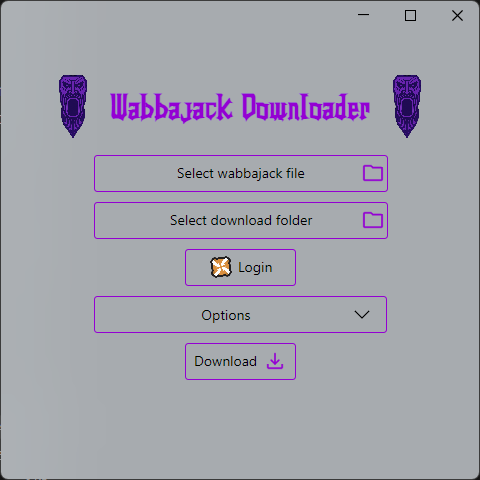
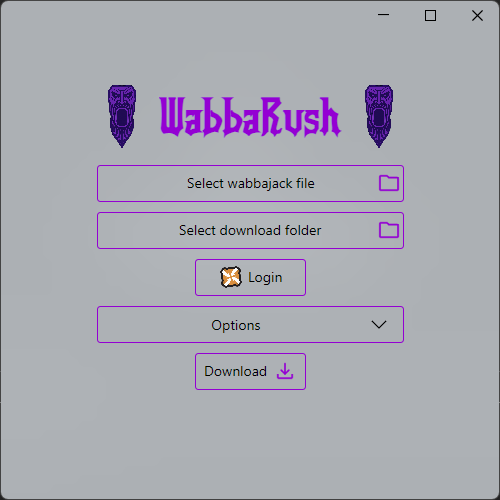
Update name

diff --git a/WabbajackDownloader/Views/MainWindow.axaml.cs b/WabbajackDownloader/Views/MainWindow.axaml.cs
@@ -21,7 +21,7 @@ namespace WabbajackDownloader.Views;
 
 public partial class MainWindow : Window
 {
-    private static readonly Uri repoUri = new("https://github.com/ent3m/WabbajackDownloader");
+    private static readonly Uri repoUri = new("https://github.com/ent3m/WabbaRush");
     private const string selectFileMessage = "Select wabbajack file";
     private const string selectFolderMessage = "Select download folder";
     private static readonly FilePickerFileType wabbajackFileType = new("Wabbajack file")
